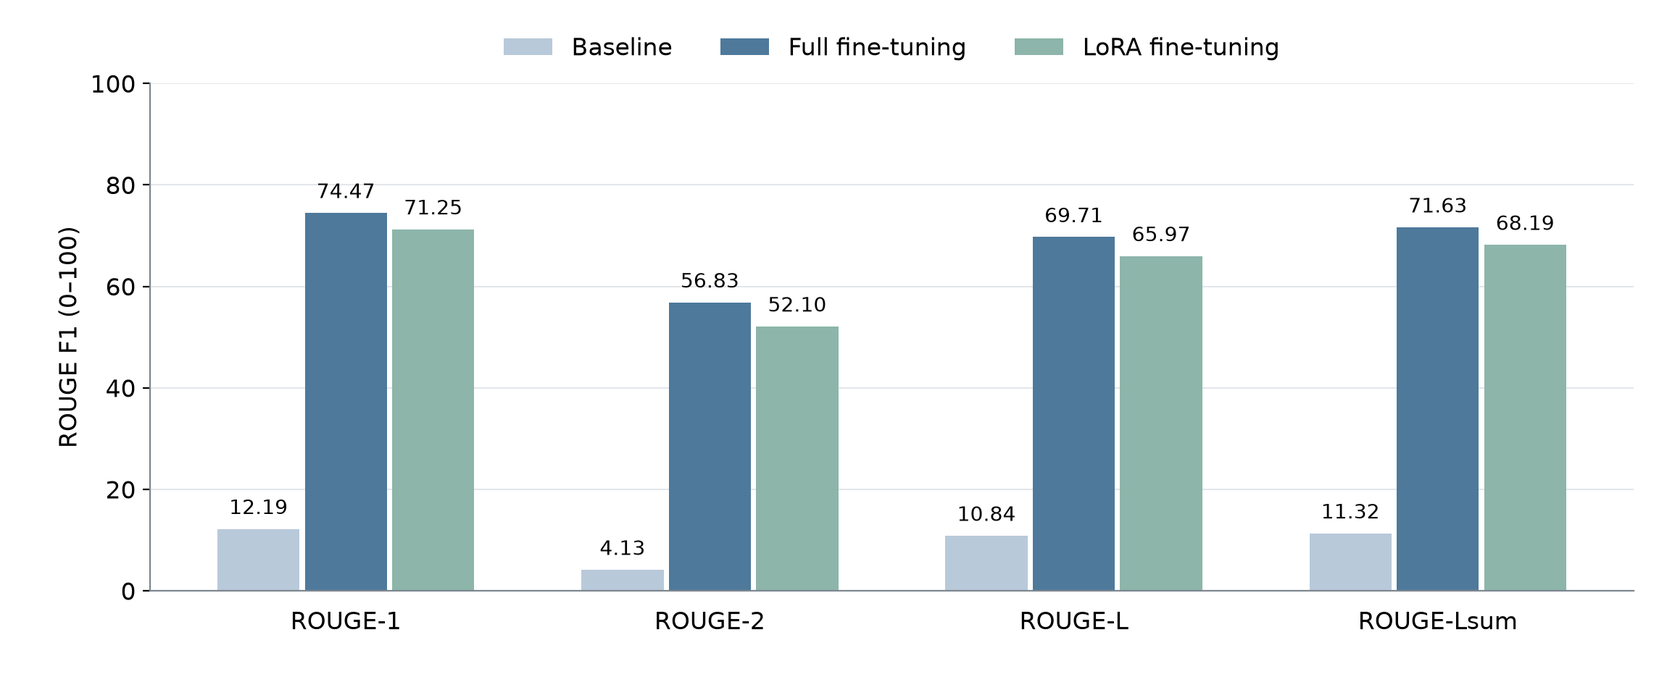
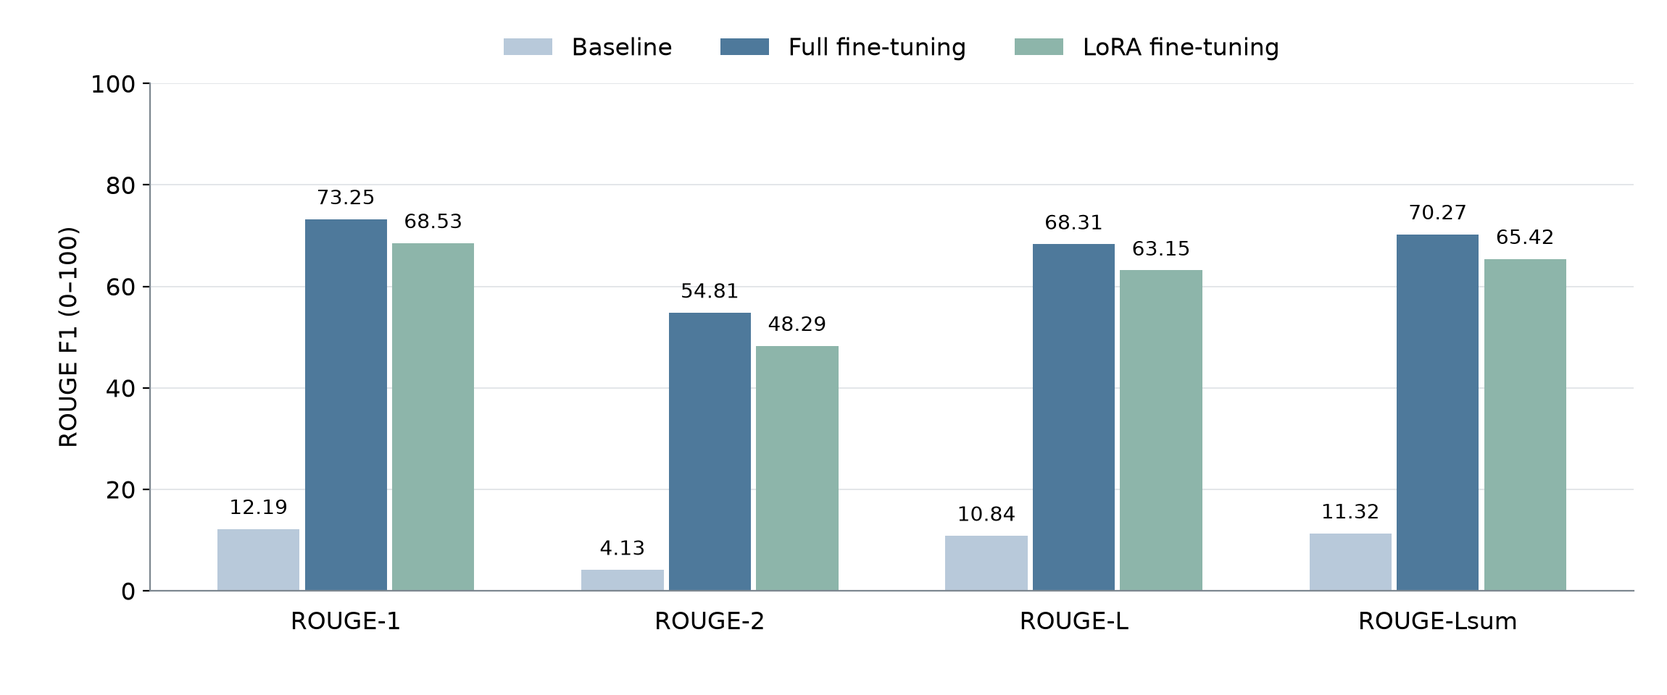
Report FLAN-T5 results on the disjoint report splits
Update the README and ROUGE chart with the final comparison on 10,000
validation reports. Document scores by original training-set overlap,
readability, compute costs and errors in four selected test cases.

diff --git a/recognition/FLAN_T5_s4983489/README.md b/recognition/FLAN_T5_s4983489/README.md
@@ -14,17 +14,18 @@ This project uses FLAN-T5 to rewrite radiology reports in plain English for pati
 
 ## Dataset and Preprocessing
 
-The official [BioLaySumm LaymanRRG dataset](https://huggingface.co/datasets/BioLaySumm/BioLaySumm2025-LaymanRRG-opensource-track) is used without re-splitting or augmentation:
+The official [BioLaySumm LaymanRRG dataset](https://huggingface.co/datasets/BioLaySumm/BioLaySumm2025-LaymanRRG-opensource-track) contains 150,454 training rows, 10,000 validation rows and 10,537 test rows. I kept the entire official validation set for the final ROUGE comparison and formed a development set from the training data.
 
 | Split | Reports | Use |
 | --- | ---: | --- |
-| Training | 150,454 | Full fine-tuning and LoRA fine-tuning |
-| Validation | 10,000 | ROUGE and validation loss (all references are non-empty) |
-| Test | 10,537 | Generation, timing and source-grounded error analysis |
+| Training | 102,733 | Parameter updates for both fine-tuning methods |
+| Development | 5,488 | Loss and ROUGE after each training epoch |
+| Official validation | 10,000 | Final loss and ROUGE on the same reports for all three methods |
+| Official test | 10,537 | A common sample of 100 reports for generation, timing and case review |
 
-The split sizes were checked after loading. Only the training split is used for parameter updates. ROUGE is computed on the official validation split, as required by the assessment. Test references are not public, so test reports are used for generation and comparison with the source text, not reference-based scoring.
+Before filtering, **4,504 validation rows** shared their full report text with the official training split. Of those, **2,370** also had a matching target summary and **2,134** had a different target. Within the original training data, 12,150 distinct report texts had multiple target summaries. Repeated report–summary pairs can inflate ROUGE if a model sees them during training.
 
-An exact-text audit found that **4,504 validation reports (45.04%)** also occur in the training split, leaving **5,496 unseen reports**. Of the overlapping validation records, **2,370** also have an identical target summary in training; the other **2,134** do not. Within training, **12,150 distinct source texts** have more than one target summary. These comparisons use complete source and target strings, without normalization or truncation. I retained the official splits and report additional scores on the unseen subset below, following the Ed clarification.
+I removed all **42,233 training rows** containing any of the 2,148 report texts shared with validation. I then grouped the remaining rows by complete report text and assigned 5% of the groups to development with seed 42. This kept all target variants of each report together. Training, development and final validation have zero exact report texts in common. Matching used the original strings before tokenization. The test set has no public reference summaries, so its outputs are assessed against their source reports.
 
 `radiology_report` is the input and `layman_report` the target. Source and image identifiers are retained for auditing, but images are not loaded. Each report follows this prompt and a newline:
 
@@ -56,13 +57,12 @@ Inputs and targets are tokenized separately and truncated to 512 tokens each, in
 
 ## Experimental Design
 
-
-All methods used the same checkpoint, prompt, validation reports and greedy decoding. Formal runs used one NVIDIA A100-PCIE-40GB and two CPU cores on Rangpur, with a 12-hour limit per job. Both adaptations used the complete training split:
+I trained both adapted models with the PyTorch loop in `train.py`, starting from the same FLAN-T5-base checkpoint. The zero-shot comparison uses saved outputs from the original baseline run with the same checkpoint, prompt, decoding settings and official validation reports. Each fine-tuning job used one NVIDIA A100-PCIE-40GB and two CPU cores on Rangpur.
 
 | Setting | Full fine-tuning | LoRA fine-tuning |
 | --- | --- | --- |
 | Starting checkpoint | `google/flan-t5-base` | Same |
-| Epochs / optimizer updates | 2 / 18,808 | 2 / 18,808 |
+| Epochs / optimizer updates | 2 / 12,842 | 2 / 12,842 |
 | Batch / gradient accumulation | 2 / 8 (effective batch 16) | Same |
 | Optimizer / learning rate | AdamW / `5e-5` | AdamW / `3e-4` |
 | Schedule / warm-up / weight decay | Linear decay / 0 / 0 | Same |
@@ -73,9 +73,7 @@ All methods used the same checkpoint, prompt, validation reports and greedy deco
 | Model selection | Final epoch | Final epoch |
 | Adaptation | All weights | `q`, `v` (rank 8, alpha 16, dropout 0.05) |
 
-LoRA fine-tuning used no trainable biases. No hyperparameter search was conducted. Both adapted models were evaluated after each epoch, and the final epoch was used for comparison. The learning rates differ, so this comparison does not isolate the effect of adaptation method alone. Saved identifiers and references were checked to confirm that all methods used the same validation examples.
-
-The full fine-tuning and LoRA fine-tuning jobs completed in **8:11:11** and **9:45:45**, respectively, including setup, validation, saving and test inference. Both saved models were reloaded successfully.
+I fixed the two-epoch schedule and evaluated the final model once on official validation. Only development scores were monitored during training. LoRA fine-tuning used no trainable biases. The learning rates differed, so the comparison measures the two configurations as run. Both saved models reproduced their first batch of final validation predictions after reloading.
 
 ## Results
 
@@ -86,26 +84,27 @@ Scores are mean per-example ROUGE F1 on a **0 to 100 scale**, with Porter stemmi
 | Condition | ROUGE-1 | ROUGE-2 | ROUGE-L | ROUGE-Lsum | Validation loss |
 | --- | ---: | ---: | ---: | ---: | ---: |
 | Zero-shot baseline | 12.19 | 4.13 | 10.84 | 11.32 | 2.4202 |
-| Full fine-tuning, 2 epochs | **74.47** | **56.83** | **69.71** | **71.63** | **0.5123** |
-| LoRA fine-tuning, 2 epochs | 71.25 | 52.10 | 65.97 | 68.19 | 0.7206 |
+| Full fine-tuning, 2 epochs | **73.25** | **54.81** | **68.31** | **70.27** | **0.5421** |
+| LoRA fine-tuning, 2 epochs | 68.53 | 48.29 | 63.15 | 65.42 | 0.7635 |
 
 ![Baseline, full fine-tuning and LoRA fine-tuning compared on four validation ROUGE metrics, using a shared 0 to 100 scale](figures/rouge_comparison.png)
 
-*Each method was evaluated in one run.*
+Full fine-tuning led on all four metrics, finishing **5.16 ROUGE-L points** ahead of LoRA fine-tuning. On development, ROUGE-L rose from **64.22 to 64.98** between epochs for full fine-tuning and from **59.46 to 60.17** for LoRA fine-tuning.
 
-Both adapted models scored much higher than the baseline. Full fine-tuning exceeded LoRA fine-tuning by **3.74 ROUGE-L points**. From epoch one to two, validation loss decreased from **0.5449 to 0.5123** for full fine-tuning and from **0.7630 to 0.7206** for LoRA fine-tuning. ROUGE-L increased from **69.11 to 69.71** and **65.14 to 65.97**, respectively.
+### Validation by Original Training-Set Overlap
 
-### Unseen-Report Evaluation
+Following the Ed clarification, I also scored the 5,496 validation reports whose source text was absent from the *original* training split. The other 4,504 had a match before filtering. All 10,000 were held out of parameter updates and development in these runs.
 
-I rescored the saved predictions on the same **5,496 validation reports whose complete source text does not occur in training**. All three prediction files were checked against the official validation sources, references and identifiers before selecting the subset.
+| Method | Match in original training split | ROUGE-1 | ROUGE-2 | ROUGE-L | ROUGE-Lsum |
+| --- | --- | ---: | ---: | ---: | ---: |
+| Zero-shot baseline | Absent | 14.28 | 5.16 | 12.49 | 13.20 |
+| Full fine-tuning | Absent | 71.01 | 50.44 | 64.63 | 67.56 |
+| LoRA fine-tuning | Absent | 66.91 | 44.48 | 59.85 | 63.25 |
+| Zero-shot baseline | Present | 9.65 | 2.88 | 8.83 | 9.02 |
+| Full fine-tuning | Present | 75.99 | 60.13 | 72.79 | 73.59 |
+| LoRA fine-tuning | Present | 70.52 | 52.94 | 67.17 | 68.08 |
 
-| Method | ROUGE-1 | ROUGE-2 | ROUGE-L | ROUGE-Lsum |
-| --- | ---: | ---: | ---: | ---: |
-| Baseline | 14.28 | 5.16 | 12.49 | 13.20 |
-| Full fine-tuning | **71.22** | **50.85** | **64.95** | **67.81** |
-| LoRA fine-tuning | 67.06 | 44.82 | 60.08 | 63.38 |
-
-Full fine-tuning still leads on unseen reports. On overlapping reports, ROUGE-L is **75.51** for full fine-tuning and **73.15** for LoRA fine-tuning, compared with **64.95** and **60.08** on unseen reports. The full-validation scores therefore give a more favourable picture than the unseen subset. Report difficulty also differs between subsets, so this gap alone does not establish how much was caused by memorisation. Here, unseen refers to exact report text, not verified patient-level independence.
+Both adapted models scored higher on the previously matched group even after its training copies were removed. The groups also differ in length. Source reports averaged 10.84 words in the matched group and 33.54 words in the group without a match.
 
 ### Readability
 
@@ -116,42 +115,38 @@ Flesch–Kincaid grade estimates reading difficulty from sentence length and syl
 | Original report | 23.32 | 13.79 | 2.69 |
 | Reference summary | 38.60 | 7.45 | 31.13 |
 | Zero-shot baseline | 10.61 | 13.64 | 12.53 |
-| Full fine-tuning | 36.10 | 7.40 | 32.94 |
-| LoRA fine-tuning | 35.50 | 7.29 | 33.72 |
+| Full fine-tuning | 36.17 | 6.81 | 40.78 |
+| LoRA fine-tuning | 35.82 | 6.42 | 45.41 |
 
 The baseline produced 13 outputs with no countable words. These are included in mean word count but excluded from grade statistics; all other rows have 10,000 grade scores.
 
-Both fine-tuning methods bring the estimated reading level close to the reference summaries, but their mean grades remain above six and only about a third of outputs meet that target. On the 5,496 unseen reports, mean grades are similar: **7.36** for full fine-tuning and **7.30** for LoRA fine-tuning. These estimates describe word and sentence structure, not medical accuracy or patient comprehension. Shorter text can also omit findings, as the baseline cases below show.
+Both methods produced summaries with a lower mean reading grade than the references. Fewer than half reached grade six or below. The baseline gave the shortest answers yet had the highest estimated reading grade among the models. Case 1 illustrates why a short answer can still be inadequate for a patient.
 
 ### Resource Use and Inference
 
-| Condition | Total parameters | Trainable parameters | Peak allocated VRAM (MiB) | Measured train/eval routine (s) |
-| --- | ---: | ---: | ---: | ---: |
-| Baseline | 247,577,856 | 0 | 1,428.48 | 3,256.38 (validation only) |
-| Full | 247,577,856 | 247,577,856 | 8,692.12 | 29,265.91 |
-| LoRA fine-tuning | 248,462,592 | 884,736 | 5,353.66 | 34,980.96 |
+| Method | Total parameters | Trainable parameters | Peak allocated VRAM (MiB) | Training + development (s) | Final validation (s) |
+| --- | ---: | ---: | ---: | ---: | ---: |
+| Zero-shot baseline | 247,577,856 | 0 | 1,428.48 | — | 3,256.38 |
+| Full fine-tuning | 247,577,856 | 247,577,856 | 8,679.37 | 18,465.92 | 5,762.14 |
+| LoRA fine-tuning | 248,462,592 | 884,736 | 5,370.20 | 21,510.96 | 7,363.04 |
 
-For both fine-tuning methods, `train_runtime` includes both validation passes and epoch checkpoint saving, but excludes final export and test inference. Baseline time covers validation alone. VRAM is peak PyTorch allocated memory, not total process memory. The saved field `peak_gpu_memory_mb` is expressed here in **MiB**, since the code divides bytes by `1024²`.
-
-LoRA fine-tuning updated **0.356%** of its parameters and used **38.4%** less peak allocated VRAM than full fine-tuning, but its recorded training routine took longer. Both methods still run the base model and generate complete sequences during validation. Adapter overhead is one possible cause, but it was not measured separately.
+Training time includes both development passes and checkpoint saves. Peak VRAM is the highest memory allocated by PyTorch across training and evaluation. LoRA fine-tuning updated **0.356%** of its parameters and used **38.1%** less peak VRAM. End-to-end job time was **6 h 49 min 20 s** for full fine-tuning and **8 h 05 min 15 s** for LoRA fine-tuning, including final validation and test inference.
 
 Inference used the same **100 test reports sampled with seed 42**, batch size one, on the same GPU model:
 
 | Condition | Generated tokens | Generation time (s) | Mean seconds/report | Tokens/second | Inference peak allocated VRAM (MiB) |
 | --- | ---: | ---: | ---: | ---: | ---: |
 | Baseline | 3,794 | 61.52 | 0.615 | 61.67 | 1,043.04 |
-| Full | 6,916 | 107.99 | 1.080 | **64.04** | 1,043.04 |
-| LoRA fine-tuning | 6,827 | 139.51 | 1.395 | 48.94 | 1,046.41 |
+| Full fine-tuning | 6,878 | 111.89 | 1.119 | 61.47 | 1,043.04 |
+| LoRA fine-tuning | 6,655 | 135.96 | 1.360 | 48.95 | 1,046.41 |
 
 Timing includes only CUDA-synchronized `generate()` calls. It excludes loading, tokenization, input transfer, decoding and scoring. There was no warm-up. Token counts exclude decoder start and padding tokens but include EOS. The baseline generated shorter outputs, so seconds per report cannot be compared without considering output length. Timing was measured once per method.
 
 ## Clinical Safety Autopsy: Four Test Cases
 
-I inspected the first 30 predictions from the 100-report test sample and selected four cases to examine different errors. Cases 1 to 4 correspond to reports 14, 15, 19 and 20 in the seed-42 sample. I compared each output with its source report because test references are not publicly available.
+Cases 1–4 are reports 14, 15, 19 and 20 in the same 100-report test sample (seed 42, counting from 1). I kept these four reports fixed across runs and compared each output with the source text. The public test split has no reference summaries.
 
-The source reports and model outputs below are reproduced unchanged. All four inputs and their generated outputs were below the 512-token limits, so truncation does not explain the errors discussed here.
-
-### Case 1: Repetition, omission and anatomical location
+### Case 1: Technical terms left unexplained
 
 Source: **PadChest**. Identifier: `216840111366964013590140476722013044085724775_02-062-040.png`.
 
@@ -165,15 +160,15 @@ Source: **PadChest**. Identifier: `216840111366964013590140476722013044085724775
 
 **Full fine-tuning:**
 
-> The images of the left lower lung and the lower right lung are consistent with a condition called bronchiectasis and chronic obstructive pulmonary disease (COPD). There is a small round spot in the left lung area near the hilum. The thickening of the lung coverings at the top on the left side is more noticeable. It is suggested to do a full chest CT scan for further evaluation.
+> The images of the lingular and right basal areas are consistent with bronchiectasis and COPD. A small nodule of small size is noted in the left parahilar region. There is an increase in apical pleural thickening on the left. A complete study with a chest CT is recommended.
 
 **LoRA fine-tuning:**
 
-> The images of the lingular and right basal areas are consistent with bronchiectasis and COPD. A small nodule of small size is seen in the left parahilar region. There is an increase in thickening of the pleural pleural pleural pleural thickening on the left. It is recommended to have a full study with a chest CT scan.
+> The images of the lingular and right basal zones are consistent with bronchiectasis and COPD. A small nodule of small size is seen in the left parahilar region. There is an increase in thickening of the pleural pleura on the left. It is suggested to have a full study with a chest CT scan.
 
-**Analysis.** This report combines several technical terms with precise anatomical locations. The baseline retains only the CT recommendation, so its brevity comes from omitted findings. LoRA fine-tuning keeps more information but leaves “bronchiectasis” and “parahilar” unexplained, repeats “pleural” four times and loses the “apical” location. Full fine-tuning replaces “pleural” with the more accessible “lung coverings,” yet changes “lingular” to “left lower lung,” although the lingula belongs to the left upper lobe. Here, replacing a technical location with familiar words changes the anatomy. Repetition and retained jargon make reading harder, while inaccurate substitutions make simpler wording misleading.
+**Analysis.** The baseline gives only the CT recommendation, omitting the nodule and increased pleural thickening. Full fine-tuning keeps those details but copies terms such as “bronchiectasis” and “parahilar” into the patient summary. Even “a small nodule of small size” closely follows the source. LoRA fine-tuning introduces the awkward phrase “pleural pleura” and drops “apical,” so the reader loses the location of the thickening as well as an explanation of the term.
 
-### Case 2: Unsupported fluid findings and omissions
+### Case 2: An opacity interpreted as fluid
 
 Source: **BIMCV-COVID19**. Identifier: `ses-E67984`.
 
@@ -187,15 +182,15 @@ Source: **BIMCV-COVID19**. Identifier: `ses-E67984`.
 
 **Full fine-tuning:**
 
-> A chest x-ray taken from the back to the front shows a solid area in the lower right part of the lung and a part called the lingular, which could be due to inflammation or infection. There are also long-term changes in the lung tissue. The top part of the right lung is thicker than normal. There are signs of fluid buildup outside the lung. A skin fold is seen over the right side of the chest.
+> A chest x-ray taken from the back to the front shows a solid area in the lower right part of the lung and a part called the lingular, which could be due to inflammation or infection. There are also long-term changes in the lung tissue. The top part of the right lung is thicker than normal. There are signs of fluid buildup outside the lungs. A skin fold is seen over the right side of the chest.
 
 **LoRA fine-tuning:**
 
-> The chest x-ray taken from the front shows signs of fluid buildup in the lower right part of the lung and a thickening of the lung tissue at the top. There are also signs of fluid buildup in the outer parts of the lungs. A skin fold is seen over the right side of the chest.
+> The chest x-ray taken from the front shows signs of lung tissue thickening at the bottom right and the lingular area, which could be due to inflammation or infection. There are long-term changes in the lung tissue. The top right part of the lung has thickening. There are signs of fluid buildup around the lungs. A skin fold is seen over the right side of the chest.
 
-**Analysis.** The source explicitly expands EPO as “extrapleural opacity,” yet both adapted outputs replace this finding with “fluid buildup.” The failure occurs when the explanation names a substance that the original imaging description did not identify. LoRA fine-tuning also applies this interpretation to the lower-right consolidation and omits its possible inflammatory or infectious origin and the chronic changes. “Fluid buildup” is more familiar wording than “extrapleural opacity,” but it makes an unsupported interpretation sound straightforward. Full fine-tuning retains more of the source's qualifications while still making this substitution. The baseline contains no fluid claim, but returning only the examination type removes all the findings.
+**Analysis.** The report expands EPO as “extrapleural opacity.” Both fine-tuned models tell the reader there is fluid, although the report never identifies what caused the opacity. This is easy to overlook because both models preserve the *separate* suggestion of inflammation or infection as a possible cause of the consolidation. The unsupported fluid claim concerns a different finding. The baseline leaves out both findings and says only that a chest radiograph was taken.
 
-### Case 3: Negation, uncertainty and diagnostic meaning
+### Case 3: A lost negative and an uncertain finding
 
 Source: **BIMCV-COVID19**. Identifier: `ses-E46467`.
 
@@ -209,15 +204,15 @@ Source: **BIMCV-COVID19**. Identifier: `ses-E46467`.
 
 **Full fine-tuning:**
 
-> There are no obvious signs of lung infections, but there might be a possible cloudiness at the bottom right part of the lung that needs to be checked over time.
+> There are no clear signs of lung infections, but there might be a possible cloudiness at the bottom right part of the lung that needs to be checked over time.
 
 **LoRA fine-tuning:**
 
 > There are no clear signs of lung infections, but there might be a possible cloudiness at the bottom right part of the lung that should be checked over time.
 
-**Analysis.** The sentence combines a qualified negative (“No clear”) with a separate uncertain finding and follow-up. The baseline retains “pulmonary infiltrate” but loses the negation, turning it into an affirmative finding and dropping the follow-up. Both fine-tuned outputs handle these qualifications better, preserving the negative wording, uncertainty and later assessment. Their remaining error is a narrowing of meaning when “infiltrates” becomes “infections,” a more specific interpretation than the source supports. “Cloudiness at the bottom right” is easier to read than “right basal opacity,” but this useful simplification sits alongside a change in diagnostic meaning. “Might be a possible” also expresses uncertainty redundantly.
+**Analysis.** The report makes two distinct observations. It finds no clear infiltrates, while a questionable opacity on the lower right needs follow-up. The baseline drops “No clear,” tells the reader there is an infiltrate and omits the follow-up. Both fine-tuned models keep the uncertainty and follow-up and explain the opacity as “cloudiness.” But they change the first observation to “no clear signs of lung infections.” This narrows an imaging finding to a particular clinical interpretation that the source did not make.
 
-### Case 4: Incorrect medical explanation and examination scope
+### Case 4: Which parts of the lungs were examined?
 
 Source: **BIMCV-COVID19**. Identifier: `ses-E28411`.
 
@@ -231,45 +226,39 @@ Source: **BIMCV-COVID19**. Identifier: `ses-E28411`.
 
 **Full fine-tuning:**
 
-> A 22-year-old woman has acute appendicitis, which is a type of apex infection. She tested positive for coronavirus, and was asked to have an examination done. The scan didn't show the top parts of both lungs, which is a bit of a problem. The lung tissue that can be seen in the image doesn't show any signs of pneumonia or other lung infections. There's no fluid around the lungs. The heart and the areas where the lungs connect to the heart look normal in shape and size.
+> A 22-year-old woman has acute appendicitis, which is a type of inflammation that affects the lining of the lungs. She tested positive for coronavirus, and was asked to have an examination done. The study was not perfect because both the top parts of the lungs weren't included. In the lung tissue that can be seen, there are no signs of pneumonia or other lung infections. There is no fluid around the lungs. The heart and the areas where the lungs connect to the heart are normal in shape and size.
 
 **LoRA fine-tuning:**
 
-> The patient is a 22-year-old woman who has a severe appendicitis. She has a positive PCR test for coronavirus. She wanted to have an examination done. The examination was not very good because both the top parts of the lungs are not included. The lungs look clear without any signs of pneumonia or other lung infections. There is no fluid around the lungs. The heart and the areas where the lungs connect to the heart are normal in shape and size.
+> The patient is a 22-year-old woman with acute appendicitis. She has a positive PCR for coronavirus. She was asked to have an examination. The examination was not very good because both the lungs are not included. The lung tissue looks normal, but there are no signs of pneumonia or other lung infections. There is no fluid around the lungs. The heart and the areas where the lungs connect to the heart are normal in shape and size.
 
-**Analysis.** The source limits its negative findings to the visible lung tissue. LoRA fine-tuning mentions the missing apices but then says “The lungs look clear,” separating the limitation from the conclusion it constrains. It also changes “acute” to “severe,” adding an unsupported judgment. Full fine-tuning preserves the examination scope through “The lung tissue that can be seen,” and “top parts” makes “apices” easier to understand. However, its added definition of appendicitis as “a type of apex infection” is false. Appendicitis is inflammation of the appendix. The definition sounds explanatory while changing the medical meaning. This case shows why both added definitions and the links between qualifications and conclusions need checking, even when individual sentences read fluently.
+**Analysis.** Only the tops of both lungs were outside the image. LoRA fine-tuning broadens that limitation to the lungs themselves, telling the reader that “both the lungs are not included,” then saying “The lung tissue looks normal.” A reader cannot tell what was actually examined. Full fine-tuning keeps the boundary in “the lung tissue that can be seen,” but introduces a different error when it explains appendicitis as inflammation of the lung lining. Appendicitis affects the appendix. The baseline retains the presenting history and omits both the examination limitation and the chest findings.
 
 ### What the Cases Show
 
-Within these four cases, baseline omission recurs, while both adapted models repeatedly replace technical imaging terms with more specific fluid or infection interpretations. The repeated “pleural” sequence, by comparison, appears in only one of these four cases. Better coverage and more familiar wording coexist with lost qualifications, false explanations and changed locations. Some of these errors occur in the full fine-tuned model even though it has the highest validation ROUGE scores.
-
-ROUGE measures textual overlap rather than clinical correctness. These cases illustrate possible failures but do not establish their frequency or which fine-tuning method is clinically safer.
+The baseline omits findings or follow-up in all four cases. The longer fine-tuned summaries retain more information, but both models make the same unsupported substitutions in Cases 2 and 3. In Case 4, full fine-tuning explains the imaging limitation more accurately, while adding a medical definition that is wrong. ROUGE rewards words shared with a reference. These errors depend on which finding a word describes, where it is located and how certain the report is.
 
 ## Recommendation and Limitations
 
-Full fine-tuning achieved the highest validation ROUGE scores and the higher measured generation throughput of the two adapted models (**64.04** versus **48.94 tokens/second**). LoRA fine-tuning used **38.4%** less peak allocated training VRAM and saved a **3.56 MB** adapter instead of **990.35 MB** of full-model weights (decimal MB). The adapter still needs the base model for inference. These results favour full fine-tuning for quality-focused follow-up experiments and LoRA fine-tuning when training memory and storage are tighter. They do not demonstrate a clinical safety advantage for either model.
+I would choose full fine-tuning when reference agreement and inference speed are the priorities. It led on all four ROUGE measures and generated 61.47 tokens per second, compared with 48.95 for LoRA fine-tuning. When GPU memory is limited, LoRA fine-tuning cut peak VRAM by 38.1% and saved a 3.56 MB adapter. Full-model weights took 990.35 MB. The adapter requires the base model at inference. Both configurations still produced unsupported findings in the case review.
 
-The feasibility criteria can now be checked against the completed experiments:
-
-| Criterion | Outcome | Evidence                                                                                                                                      |
-| --- | --- |-----------------------------------------------------------------------------------------------------------------------------------------------|
-| 1. Data and evaluation separation | Partially met | Official splits were retained, but 4,504 validation reports also occur in training. The same 5,496 unseen reports are scored separately for all methods. |
-| 2. Higher ROUGE than zero-shot | Met | Both adapted models improve all four reported ROUGE metrics.                                                                                  |
-| 3. Clinical faithfulness in four cases | Not met | Both adapted methods introduce unsupported clinical interpretations, and some important details are omitted or changed.                       |
-| 4. Clear, non-repetitive explanations | Not met | Case 1 contains repeated or unexplained terms. Mean reading grades are 7.40 and 7.29, above the sixth-grade aim. |
-| 5. Resource budget and saved models | Met | Both formal training jobs completed within 12 hours on one A100, and the saved models were reloaded.                                          |
+| Feasibility criterion | Outcome | Evidence |
+| --- | --- | --- |
+| 1. Data and evaluation separation | Met | Training, development and final validation shared zero exact report texts. All methods were scored on the same 10,000 final reports. |
+| 2. Higher ROUGE than zero-shot | Met | Both adapted models improved all four metrics. |
+| 3. Clinical faithfulness in four cases | Not met | Both models described the opacity as fluid in Case 2. In Case 3 they changed “no clear pulmonary infiltrates” to “no clear signs of lung infections.” |
+| 4. Clear, non-repetitive explanations | Not met | In Case 1, “parahilar” remained unexplained and the LoRA fine-tuning output used “pleural pleura.” |
+| 5. Resource budget and saved models | Met | Both jobs finished within 12 hours on one A100 and reproduced predictions after reloading. |
 
 **Engineering recommendation.** Neither model should generate summaries for patients without review. A safer workflow would compare each draft with its source report before release, checking anatomical location, findings, negation, uncertainty and severity. It should also flag missing findings, follow-up advice and examination limits, as well as repeated or unexplained technical terms. A summary with a possible clinical contradiction or omission should be sent to a qualified reviewer. These checks are proposed safeguards, not features implemented or validated in this prototype.
 
-**Limitations.** The experiments used one checkpoint, one seed and one prompt. Full fine-tuning and LoRA fine-tuning used different learning rates, with no hyperparameter or rank search. Inference timings were measured once without warm-up. Longer reports may be affected by the 512-token input limit, although the four audited examples were not truncated.
-
-Patient comprehension and clinical outcomes were not measured. Patient-level independence between official dataset splits and possible pretraining contamination were not verified. A representative sample with clinician-labelled factual errors and patient comprehension testing would be needed to assess clinical reliability beyond these four cases and reading-grade estimates.
+**Limitations.** The comparison uses one base checkpoint, seed and prompt, with one learning rate per method. Longer reports can be truncated at 512 input tokens. Exact text matching can miss near-duplicates and reports from the same patient. The official validation set was also used in earlier experiments. Reading grades estimate sentence and word complexity. The four selected cases show specific errors, while estimating their frequency or measuring patient comprehension would require a separate study.
 
 ## Implementation and Reproduction
 
 | File | Purpose |
 | --- | --- |
-| `dataset.py` | Load official splits, audit source/target overlap and tokenize pairs |
+| `dataset.py` | Audit the official splits, remove shared report texts, form a grouped development set and tokenize pairs |
 | `modules.py` | Load FLAN-T5, configure LoRA fine-tuning and count parameters |
 | `train.py` | Run explicit training and evaluation loops; save predictions, metrics, weights and curves |
 | `predict.py` | Reload a run, generate explanations and measure inference |
@@ -327,13 +316,13 @@ python recognition/FLAN_T5_s4983489/dataset.py \
     --audit-output ../runs/overlap-audit.json
 ```
 
-Training defaults match the experiment table and use complete official splits on one CPU or CUDA device. Each run saves its configuration, overlap audit, validation predictions and ROUGE scores for both the full validation set and unseen reports. Fine-tuning saves the latest epoch's weights in `model/`, optimizer and scheduler states in `checkpoint.pt`, and losses and metrics in `training_history.json` and `training_curves.png`. Checkpoints are written after epoch validation. The CLI does not support resuming a run.
+The commands above use seed 42 and assign 5% of the remaining report groups to development. Each epoch saves its weights in `model/` and optimizer and scheduler states in `checkpoint.pt` before development evaluation. `training_history.json` and `training_curves.png` record training loss and development metrics. The run directory also contains `dataset_audit.json` with partition counts, `metrics.json` with final validation results and `predictions.jsonl` with one output per validation row.
 
 Prediction requires the run configuration and, for adapted models, its saved `model/`. The custom input above corresponds to Case 3. Use `--split validation` to generate and score validation reports. Test and custom text have no reference-based ROUGE. Sampling uses the saved seed. `--output` needs a new file in an existing directory. Without it, the result is printed. `--help` lists the remaining options.
 
 ### Saved-Output Evaluation
 
-`evaluate.py` checks saved predictions against the official validation sources, references and identifiers in order. It reports full, unseen and overlapping-subset ROUGE, plus readability for the full and unseen sets.
+`evaluate.py` checks saved predictions against official validation sources, references and identifiers in order. Its `unseen` and `overlap` keys refer to matches against the original training file **before filtering**. It reports ROUGE for the full set and both groups, plus readability for the full set and the group without an original match.
 
 The readability analysis used Python 3.12.13, `textstat==0.7.13`, `pyphen==0.18.1` and `nltk==3.10.0`. With the dependencies above installed, run:
 
@@ -353,12 +342,11 @@ Records are kept outside Git. Local paths are relative to the repository root. R
 
 | Records | Location |
 | --- | --- |
-| Local baseline results | `../runs/rangpur-20261003/` |
-| Local fine-tuning results | `../runs/rangpur-20261004-epochs2/` |
-| Overlap audit and saved-output subset scores | `../runs/overlap-audit-20261116/` |
-| Combined ROUGE/readability analysis and its environment record | `../runs/evaluation-20261117/` |
+| Local zero-shot baseline | `../runs/rangpur-20261003/baseline/` |
+| Local split audit, fine-tuning results and environments | `../runs/independent-20261117/` |
+| ROUGE by original overlap group and readability | `../runs/independent-20261117/validation_analysis.json` |
 | Remote baseline and original logs | `/home/Student/s4983489/comp3710-ass2/runs/20261003-formal/` |
-| Remote fine-tuned weights and checkpoints | `/home/Student/s4983489/comp3710-ass2/runs/20261004-epochs2/{full,lora}/` |
+| Remote fine-tuned weights and checkpoints | `/home/Student/s4983489/comp3710-ass2/runs/20261117-independent/{full,lora}/` |
 
 Trained weights and checkpoints are stored on Rangpur and are not included in this repository.
 
